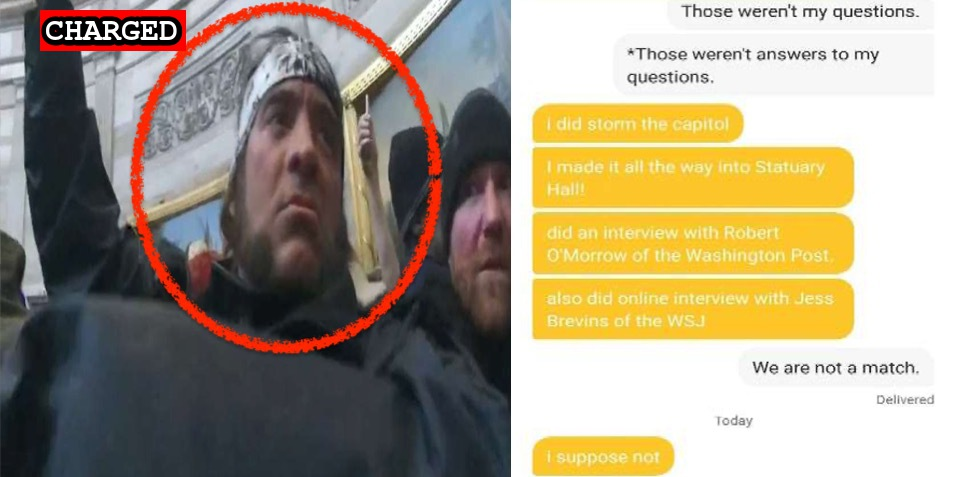
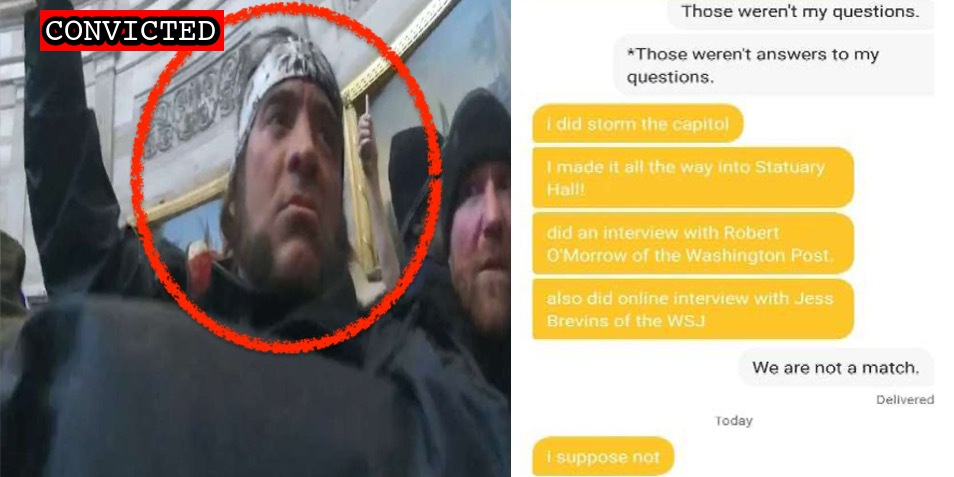
Chapman Plea

Changed region(s): [[0.0304, 0.0, 0.2432, 0.1174]]

diff --git a/docs/_suspects/robert-chapman.md b/docs/_suspects/robert-chapman.md
@@ -4,16 +4,16 @@ lastName: Chapman
 hashtag: RobertChapman
 aka: Robert Erick
 residence: New York
-status: Charged
+status: Convicted
 date: 2021-04-13
 charged: 2021-04-13
 indicted:
-convicted:
+convicted: 2021-12-16
 sentenced:
 dismissed:
 deceased:
-plea_hearing:
-sentencing:
+plea_hearing: 2021-12-16
+sentencing: 2022-04-04
 age: 50
 occupation:
 affiliations:
@@ -25,7 +25,7 @@ courtroom:
 courthouse:
 raid:
 perpwalk:
-quote: 'I’M FUCKIN INSIDE THE CRAPITOL!!!'
+quote: "I’M FUCKIN INSIDE THE CRAPITOL!!!"
 title: Robert Chapman charged on April 13, 2021
 description: Click for latest case details. Suspects innocent until proven guilty.
 author: seditiontrack
@@ -34,8 +34,13 @@ published: true
 caseNumber:
 videos:
 charges:
+  - code: 18 USC § 5104(e)(2)(G)
+    title: Parading, demonstrating or picketing in a Capitol building
+    url: https://www.law.cornell.edu/uscode/text/40/5104
+    felony: false
 sentence:
 ---
+
 - [News Report](https://www.cnn.com/2021/04/23/politics/bumble-capitol-riot-robert-chapman/index.html)
 - [Complaint](https://www.justice.gov/usao-dc/case-multi-defendant/file/1389161/download)
 - [Statement of Facts](https://www.justice.gov/usao-dc/case-multi-defendant/file/1389166/download)
